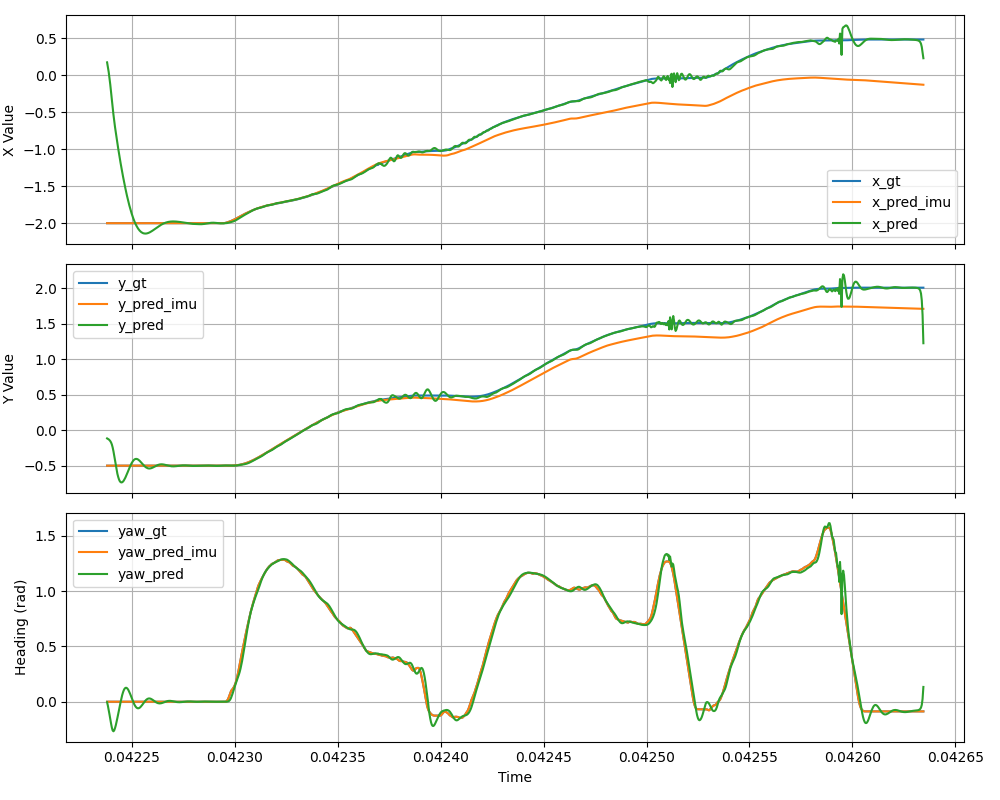
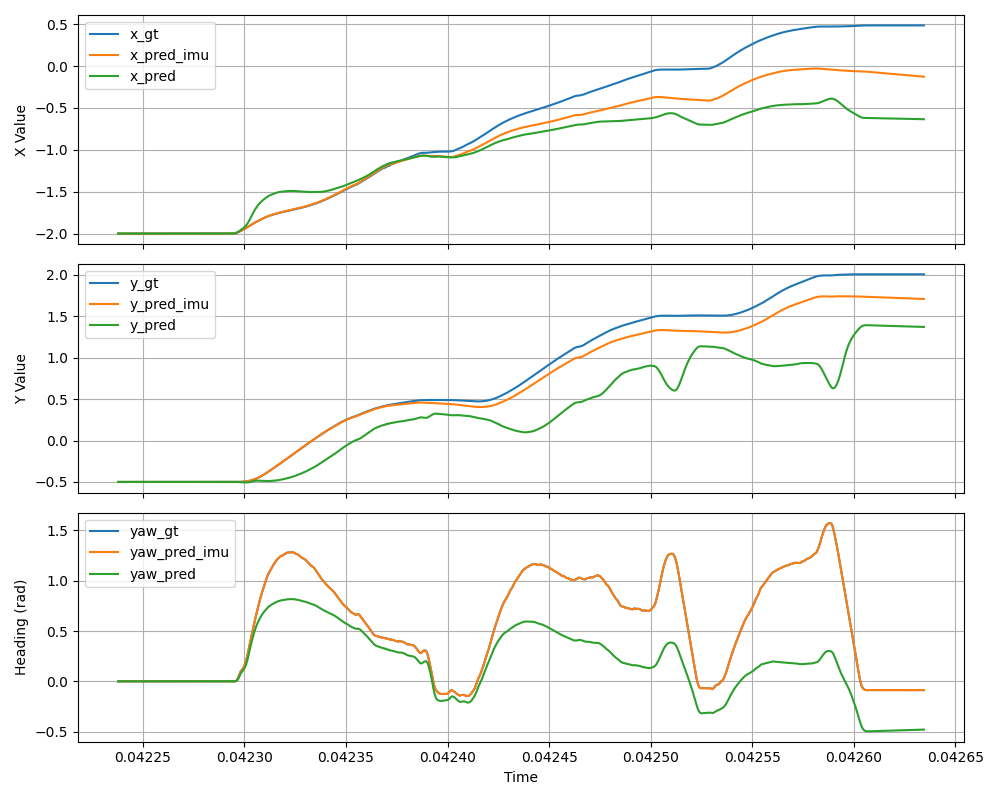
update training script

diff --git a/state_estimation/IMU_prediction.py b/state_estimation/IMU_prediction.py
@@ -134,34 +134,36 @@ def plot_data(time_stamps, x_values, y_values, heading_values, filename):
     plt.close()
 
 
-# prepare the data and create a windows for the x value of the model
 def prepare_data(odom_gt, imu_pred, seq_length):
-    dataset = []
+    gt_set, pred_set = [], []
     x_pred, y_pred, yaw_pred = imu_pred
-    i = 0
-    last_x, last_y, last_yaw = x_pred[-1], y_pred[-1], yaw_pred[-1]
-    for (x_gt, y_gt, yaw_gt) in odom_gt:
-        if i + seq_length >= len(x_pred):
-            x = x_pred[i:]
-            y = y_pred[i:]
-            yaw = yaw_pred[i:]
-        else:
-            x = x_pred[i:i+seq_length]
-            y = y_pred[i:i+seq_length]
-            yaw = yaw_pred[i:i+seq_length]
-        gt = Variable(torch.tensor(np.array((x_gt, y_gt, yaw_gt)), dtype=torch.float32).unsqueeze(0))
-        pred_tensor = torch.tensor(np.array((x, y, yaw)), dtype=torch.float32).unsqueeze(0)
-        pred_tensor = pred_tensor.permute(0, 2, 1)
-        dataset.append((gt, Variable(pred_tensor)))
-        i += 1
-    return dataset
+    x_gt_set, y_gt_set, yaw_gt_set = odom_gt
+    num_samples = len(x_gt_set)
+
+    for i in range(num_samples - seq_length + 1):  # Ensure full sequence extraction
+        # Extract prediction window
+        x = x_pred[i:i+seq_length]
+        y = y_pred[i:i+seq_length]
+        yaw = yaw_pred[i:i+seq_length]
+
+        # Stack predictions into shape (seq_length, 3)
+        pred_window = np.stack([x, y, yaw], axis=-1)  # Shape: (seq_length, 3)
+        pred_set.append(pred_window)
+
+        # Ground truth at index `i + seq_length - 1`
+        x_gt, y_gt, yaw_gt = x_gt_set[i + seq_length - 1], y_gt_set[i + seq_length - 1], yaw_gt_set[i + seq_length - 1]
+        gt_set.append([x_gt, y_gt, yaw_gt])  # Shape: (3,)
+
+    return np.stack(pred_set), np.array(gt_set)
 
 if __name__ == '__main__':
     parser = argparse.ArgumentParser(description="Plot x, y, and heading data from a ROS bag file.")
     parser.add_argument('bag', type=str, help="Path to the ROS bag file.")
+    parser.add_argument('model', type=str, default=None, nargs='?', help="Path to the model file.") # optional
     args = parser.parse_args()
 
     bag_file_path = args.bag
+    MODEL = args.model
 
     print("Extracting data from the bag file...")
     time_stamps, x_gt, y_gt, yaw_gt, imu_msgs = extract_data(bag_file_path)
@@ -170,21 +172,35 @@ if __name__ == '__main__':
     print("Computing position data based on IMU sensors...")
     x_pred_imu, y_prend_imu, yaw_pred_imu = compute_data(starting_position, imu_msgs, time_stamps)
 
-    print("training the model...")
+    print("Creating the dataset...")
     seq_length = 50
-    dataset = prepare_data(
-        odom_gt=zip(x_gt, y_gt, yaw_gt), 
+    x, y = prepare_data(
+        odom_gt=(x_gt, y_gt, yaw_gt), 
         imu_pred=(x_pred_imu, y_prend_imu, yaw_pred_imu),
         seq_length=seq_length
     )
 
+    train_size = int(len(y) * 0.67)
+    test_size = len(y) - train_size
+
+    # tensor must be in the form of (batch, seq, feature)
+
+    dataX = Variable(torch.Tensor(np.array(x))).to('cuda')
+    dataY = Variable(torch.Tensor(np.array(y))).to('cuda')
+
+    trainX = Variable(torch.Tensor(np.array(x[0:train_size]))).to('cuda')
+    trainY = Variable(torch.Tensor(np.array(y[0:train_size]))).to('cuda')
+
+    testX = Variable(torch.Tensor(np.array(x[0:len(x)]))).to('cuda')
+    testY = Variable(torch.Tensor(np.array(y[0:len(y)]))).to('cuda')
+
     # training
 
-    num_epochs = 1
+    num_epochs = 4000
     learning_rate = 0.008
 
     input_size = 3
-    hidden_size = 5
+    hidden_size = 20
     num_layers = 1
 
     output_size = 3
@@ -194,6 +210,32 @@ if __name__ == '__main__':
 
     criterion = torch.nn.MSELoss(reduction='sum')
     optimizer = torch.optim.Adam(lstm.parameters(), lr=learning_rate)
+
+    if not MODEL:
+        print("training the model...")
+        lstm.train_loop(num_epochs, trainX, trainY, optimizer, criterion)
+        torch.save(lstm.state_dict(), 'model.pth')
+    else:
+        lstm.load_state_dict(torch.load(MODEL))
+
+    # testing
+    print("testing the model...")
+    results = lstm.test_loop(testX, testY, train_size, criterion)
+
+    x_pred, y_pred, yaw_pred = [], [], []
+    for i in range(len(results)):
+        x, y, yaw = [float(x) for x in results[i]]
+        x_pred.append(x)
+        y_pred.append(y)
+        yaw_pred.append(yaw)
+    
+    # padd with last value at start
+    x_pred = np.pad(x_pred, (seq_length - 1, 0), 'edge')
+    y_pred = np.pad(y_pred, (seq_length - 1, 0), 'edge')
+    yaw_pred = np.pad(yaw_pred, (seq_length - 1, 0), 'edge')
+
+    plot_data(time_stamps, [x_gt, x_pred_imu, x_pred], [y_gt, y_prend_imu, y_pred], [yaw_gt, yaw_pred_imu, yaw_pred], 'output.png')
+    exit()
     
     delta_list = []
     for epoch in range(num_epochs):

diff --git a/state_estimation/model.py b/state_estimation/model.py
@@ -29,15 +29,36 @@ class LSTM(nn.Module):
         out = self.fc(h_out)
 
         return out
+    
+    def train_loop(self, num_epochs, trainX, trainY, optimizer, criterion):
+        delta_list = []
+        for epoch in range(num_epochs):
+            outputs = self.forward(trainX)
+            optimizer.zero_grad()
 
-    def test(self, dataX, dataY, train_size, criterion):
-        # # set model to evaluation mode
-        # self.eval()
+            # obtain the loss function
+            loss = criterion(outputs, trainY)
+
+            loss.backward()
+
+            optimizer.step()
+            if True:
+                # delta = sum(abs(outputs - trainY)).item()
+                # delta_list.append(delta)
+                # print("Epoch: %d, loss: %1.5f, delta: %f" % (epoch, loss.item(), delta))
+                print("Epoch: %d, loss: %1.5f" % (epoch, loss.item()))
+        # print("Median delta: %f" % (np.median(delta_list)))
+
+    def test_loop(self, dataX, dataY, train_size, criterion):
+        # set model to evaluation mode
+        self.eval()
 
         train_predict = self.forward(dataX)
         mserror = criterion(train_predict, dataY)
         print("MSE for val data: %1.5f" % (mserror.item()))
-        print("Delta for val data: %f" % (sum(abs(train_predict - dataY))))
+        #print("Delta for val data: %f" % (sum(abs(train_predict - dataY))))
+
+        return train_predict
 
         data_predict = train_predict.data.numpy()
         dataY_plot = dataY.data.numpy()
